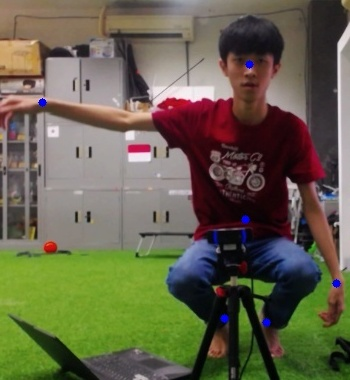
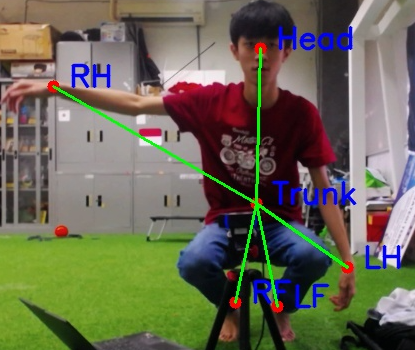
feat: add figure that compare gt and detection result

diff --git a/bab/4-pengujian-analisis.tex b/bab/4-pengujian-analisis.tex
@@ -127,17 +127,18 @@ Table \ref{tb:yoloandmediapipecomparison} shows the comparison between YOLO-pose
 By using the method in Section \ref{sec:comparingsuitability}, we get the result from comparing the human pose and robot pose in percentage terms.
 We can see the two figures below, in Figure \ref{fig:comparingb} humans make movement that are more like robot than in Figure \ref{fig:comparinga}.
 Therefore, the comparison result of Figure \ref{fig:comparingb} is higher at 91\% than Figure \ref{fig:comparinga} with just 79\%.
+Figure \ref{fig:comparisongtandresult} shows the comparison between ground truth and detection results for every robot inside the new dataset.
 
 \begin{figure}
   \centering
-  \begin{subfigure}[b]{0.4\textwidth}
+  \begin{subfigure}[b]{0.45\textwidth}
       \centering
       \includegraphics[width=\textwidth]{gambar/human_10_result.jpg}
       \caption{Human Image}
       \label{fig:humanimagea}
   \end{subfigure}
   \hfill
-  \begin{subfigure}[b]{0.4\textwidth}
+  \begin{subfigure}[b]{0.45\textwidth}
       \centering
       \includegraphics[width=\textwidth]{gambar/robot_6_result.jpg}
       \caption{Robot Image}
@@ -149,14 +150,14 @@ Therefore, the comparison result of Figure \ref{fig:comparingb} is higher at 91\
 
 \begin{figure}
   \centering
-  \begin{subfigure}[b]{0.4\textwidth}
+  \begin{subfigure}[b]{0.45\textwidth}
       \centering
       \includegraphics[width=\textwidth]{gambar/human_6_result.jpg}
       \caption{Human Image}
       \label{fig:humanimageb}
   \end{subfigure}
   \hfill
-  \begin{subfigure}[b]{0.4\textwidth}
+  \begin{subfigure}[b]{0.45\textwidth}
       \centering
       \includegraphics[width=\textwidth]{gambar/robot_6_result.jpg}
       \caption{Robot Image}
@@ -164,4 +165,38 @@ Therefore, the comparison result of Figure \ref{fig:comparingb} is higher at 91\
   \end{subfigure}
      \caption{Comparing Humanoid Robot Pose and Human Pose.}
      \label{fig:comparingb}
+\end{figure}
+
+\begin{figure}
+  \includegraphics[width=.15\textwidth]{gambar/comp_with_gt/robot_1_gt.png}
+  \includegraphics[width=.15\textwidth]{gambar/comp_with_gt/robot_1_res.png} \hfill%
+  \includegraphics[width=.113\textwidth]{gambar/comp_with_gt/robot_2_gt.png}
+  \includegraphics[width=.113\textwidth]{gambar/comp_with_gt/robot_2_res.png} \hfill%
+  \includegraphics[width=.15\textwidth]{gambar/comp_with_gt/robot_3_gt.png}
+  \includegraphics[width=.15\textwidth]{gambar/comp_with_gt/robot_3_res.png}
+  \\[\medskipamount]
+  \includegraphics[width=.135\textwidth]{gambar/comp_with_gt/robot_4_gt.png}
+  \includegraphics[width=.135\textwidth]{gambar/comp_with_gt/robot_4_res.png} \hfill%
+  \includegraphics[width=.148\textwidth]{gambar/comp_with_gt/robot_5_gt.png}
+  \includegraphics[width=.148\textwidth]{gambar/comp_with_gt/robot_5_res.png} \hfill%
+  \includegraphics[width=.16\textwidth]{gambar/comp_with_gt/robot_6_gt.png}
+  \includegraphics[width=.16\textwidth]{gambar/comp_with_gt/robot_6_res.png}
+  \\[\medskipamount]
+  \includegraphics[width=.11\textwidth]{gambar/comp_with_gt/robot_7_gt.png}
+  \includegraphics[width=.11\textwidth]{gambar/comp_with_gt/robot_7_res.png} \hfill%
+  \includegraphics[width=.155\textwidth]{gambar/comp_with_gt/robot_8_gt.png}
+  \includegraphics[width=.155\textwidth]{gambar/comp_with_gt/robot_8_res.png} \hfill%
+  \includegraphics[width=.17\textwidth]{gambar/comp_with_gt/robot_9_gt.png}
+  \includegraphics[width=.17\textwidth]{gambar/comp_with_gt/robot_9_res.png}
+  \\[\medskipamount]
+  \includegraphics[width=.12\textwidth]{gambar/comp_with_gt/robot_10_gt.png}
+  \includegraphics[width=.12\textwidth]{gambar/comp_with_gt/robot_10_res.png} \hfill%
+  \includegraphics[width=.137\textwidth]{gambar/comp_with_gt/robot_11_gt.png}
+  \includegraphics[width=.137\textwidth]{gambar/comp_with_gt/robot_11_res.png} \hfill%
+  \includegraphics[width=.18\textwidth]{gambar/comp_with_gt/robot_12_gt.png}
+  \includegraphics[width=.18\textwidth]{gambar/comp_with_gt/robot_12_res.png}
+  \centering
+  \captionsetup{justification=centering, margin=2cm}
+  \caption{Comparison Between Ground Truth and Detection Result on Every Type of Robot in Dataset}
+  \label{fig:comparisongtandresult}
 \end{figure}
